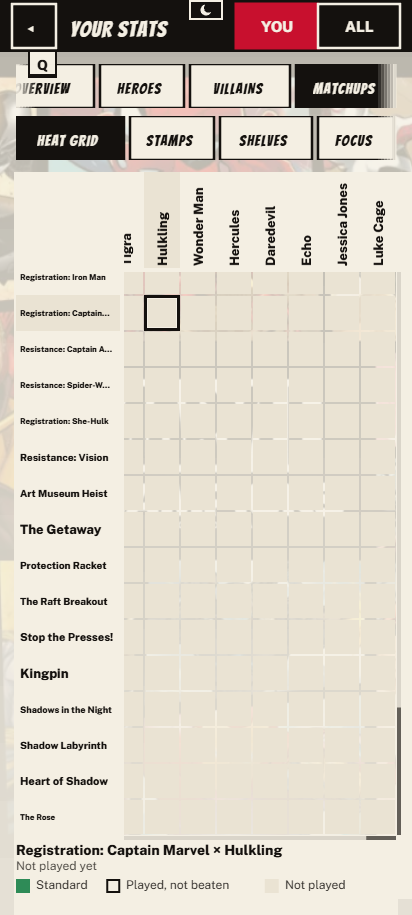
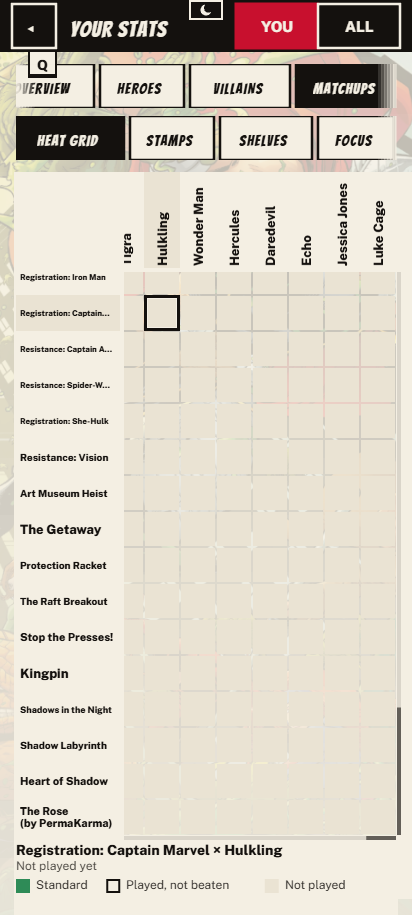
Keep the designer credit on narrow Match-ups axes; star inside the bonus chip (#935, #937)

diff --git a/packages/client/src/ui/widgets.ts b/packages/client/src/ui/widgets.ts
@@ -1736,15 +1736,15 @@ export class McStatBadge {
 
     // The printed star beside the stat (issue #766), on the right shoulder beside the number, where the card prints it:
     // the bonus chip owns the upper right, and on a card the upper left lies over the stat above's consequential damage
-    // icon (issue #935). White with an ink edge, as the card prints it.
+    // icon (issue #935). With a bonus chip, which reaches down to the right shoulder on a small badge, the star moves
+    // into the chip, ahead of its "+1" (below), so the two never overlap. White with an ink edge, as the card prints it.
     this.#star.clear();
-    if (star) {
-      const points = starPoints(Math.max(5, size * 0.2)).map(
-        (point) => new Phaser.Math.Vector2(point.x + radius * 0.95, point.y + radius * 0.05),
-      );
+    const drawStar = (radiusOf: number, x: number, y: number): void => {
+      const points = starPoints(radiusOf).map((point) => new Phaser.Math.Vector2(point.x + x, point.y + y));
       this.#star.fillStyle(surface.paper.hex, alpha).fillPoints(points, true);
       this.#star.lineStyle(1.5, surface.ink.hex, alpha).strokePoints(points, true, true);
-    }
+    };
+    if (star && bonus === 0) drawStar(Math.max(5, size * 0.2), radius * 0.95, radius * 0.05);
 
     const burst = Array.from({ length: BURST_POINTS * 2 }, (_unused, index) => {
       const reach = index % 2 === 0 ? radius : radius * BURST_INNER;
@@ -1785,8 +1785,11 @@ export class McStatBadge {
         .setText(signed)
         .setFontSize(Math.max(CAPTION_FLOOR, Math.round(size * 0.28)))
         .setColor(cssOf(surface.paper.hex, alpha));
-      const chipWidth = Math.ceil(this.#chipText.width) + 6;
       const chipHeight = Math.ceil(this.#chipText.height) + 2;
+      // A starred stat's star leads the chip ("★+1"), inside its box.
+      const starRadius = star ? Math.max(3, chipHeight * 0.34) : 0;
+      const starRoom = star ? starRadius * 2 + 2 : 0;
+      const chipWidth = Math.ceil(this.#chipText.width) + 6 + starRoom;
       // On the burst's upper-right shoulder, clear of the number (shifted down-left to make room): a +1 chip that
       // covered the figure it modifies hid the very number the player reads.
       const chipX = radius * 0.92;
@@ -1797,7 +1800,8 @@ export class McStatBadge {
       this.#chip
         .lineStyle(1.5, surface.paper.hex, alpha)
         .strokeRect(chipX - chipWidth / 2, chipY - chipHeight / 2, chipWidth, chipHeight);
-      this.#chipText.setPosition(chipX, chipY);
+      this.#chipText.setPosition(chipX + starRoom / 2, chipY);
+      if (star) drawStar(starRadius, chipX - chipWidth / 2 + 3 + starRadius, chipY);
     }
   }
 

diff --git a/packages/client/src/ui/matchup-grid.ts b/packages/client/src/ui/matchup-grid.ts
@@ -45,6 +45,7 @@ import {
   type GridStep,
   type MatchupCell,
   type MatchupGrid,
+  designerLines,
 } from "../view/matchup-grid.js";
 import { TIER_COLORS, drawLegend, onTierColor } from "./matchup-rows.js";
 import { renderArtThumb } from "../scenes/roster-panel.js";
@@ -533,7 +534,7 @@ export class McMatchupGrid {
       if (fresh) {
         text.setText(this.#grid.rows[row]!.name);
         if (stamps) fitWrapped(text, textWidth, 2, STAMP_LABEL_SIZE);
-        else fitText(text, textWidth, LABEL_SIZE);
+        else fitAxisLabel(text, textWidth, LABEL_SIZE);
       }
       if (picture) {
         pictures.add(row);
@@ -561,7 +562,7 @@ export class McMatchupGrid {
       if (fresh) {
         text.setText(this.#grid.columns[column]!.name);
         if (stamps) fitWrapped(text, metrics.cell - 4, 2, STAMP_LABEL_SIZE);
-        else fitText(text, metrics.columnHeader - 12, LABEL_SIZE);
+        else fitAxisLabel(text, metrics.columnHeader - 12, LABEL_SIZE);
       }
       if (stamps) {
         pictures.add(column);
@@ -631,4 +632,19 @@ export class McMatchupGrid {
       );
     }
   }
+}
+
+/**
+ * An axis name on one line, shrunk then clipped to fit. A custom pack's name that would lose its designer to the clip
+ * ("The Rose (by PermaKarma)" in a phone's narrow band) goes on two lines instead, the name over "(by PermaKarma)",
+ * so the credit telling it from official content stays in sight (issue #937).
+ */
+function fitAxisLabel(text: Phaser.GameObjects.Text, width: number, size: number): void {
+  const name = text.text;
+  text.setWordWrapWidth(null);
+  fitText(text, width, size);
+  const lines = designerLines(name);
+  if (!lines || text.text === name) return;
+  text.setText(lines.join("\n"));
+  fitWrapped(text, width, 2, size);
 }

diff --git a/packages/client/src/view/player-stats-model.ts b/packages/client/src/view/player-stats-model.ts
@@ -18,7 +18,7 @@ import type { SaveMeta } from "../engine/game-storage.js";
 import { isPastGame } from "./past-games-model.js";
 import type { GameSummary, SeatSummary } from "../engine/game-summary.js";
 import { deckKeyOfPlayer, villainNameOf } from "./deck-insights.js";
-import { matchupsOf, winTierOf, type MatchupAxes, type Matchups, type WinTier } from "./matchup-grid.js";
+import { byDesigner, matchupsOf, winTierOf, type MatchupAxes, type Matchups, type WinTier } from "./matchup-grid.js";
 
 export interface StatsNames {
   readonly cardName: (cardId: string) => string | undefined;
@@ -1854,10 +1854,6 @@ function markSignature(view: HeroCardsView, names: StatsNames): HeroCardsView {
     })),
   };
 }
-
-/** "The Rose (by PermaKarma)": a custom pack's content tagged with its designer, so it never reads as an official card. */
-export const byDesigner = (name: string, designer: string | undefined): string =>
-  designer ? `${name} (by ${designer})` : name;
 
 export function playerStatsOf(saves: readonly SaveMeta[], names: StatsNames, filter: StatsFilter = {}): PlayerStats {
   const facts = saves.flatMap((meta) => factsOf(meta, names) ?? []);

diff --git a/packages/client/src/view/matchup-grid.test.ts b/packages/client/src/view/matchup-grid.test.ts
@@ -1,5 +1,7 @@
 import { describe, expect, test } from "vitest";
 import {
+  byDesigner,
+  designerLines,
   bodyOf,
   cellAt,
   cellLookOf,
@@ -319,5 +321,15 @@ describe("the grid's geometry", () => {
 
   test("a cursor left past a smaller grid comes back on it", () => {
     expect(clampCursor({ ...shape, rows: 4, columns: 4 }, { row: 9, column: 9 })).toEqual({ row: 3, column: 3 });
+  });
+});
+
+describe("designer credits on the axes (issue #937)", () => {
+  test("byDesigner tags custom content and designerLines splits it back for a narrow row or column", () => {
+    expect(byDesigner("The Rose", "PermaKarma")).toBe("The Rose (by PermaKarma)");
+    expect(byDesigner("Rhino", undefined)).toBe("Rhino");
+    expect(designerLines("The Rose (by PermaKarma)")).toEqual(["The Rose", "(by PermaKarma)"]);
+    expect(designerLines("Throg (by A & B)")).toEqual(["Throg", "(by A & B)"]);
+    expect(designerLines("Spider-Man (Peter Parker)")).toBeNull();
   });
 });

diff --git a/packages/client/src/view/matchup-grid.ts b/packages/client/src/view/matchup-grid.ts
@@ -621,3 +621,13 @@ export function clampCursor(shape: GridShape, { row, column }: GridCursor): Grid
 /** How many whole rows the body shows, at least one: a page of the keyboard's Page Up and Page Down. */
 export const pageRows = (shape: GridShape): number =>
   Math.max(1, Math.floor(bodyOf(shape).height / shape.metrics.cell));
+
+/** "The Rose (by PermaKarma)": a custom pack's content tagged with its designer, so it never reads as an official card. */
+export const byDesigner = (name: string, designer: string | undefined): string =>
+  designer ? `${name} (by ${designer})` : name;
+
+/** `byDesigner` read back: "The Rose (by PermaKarma)" over two lines, the name above its credit; null with no credit. */
+export function designerLines(label: string): readonly [string, string] | null {
+  const credit = / (\(by [^)]+\))$/.exec(label);
+  return credit ? [label.slice(0, credit.index), credit[1]!] : null;
+}
